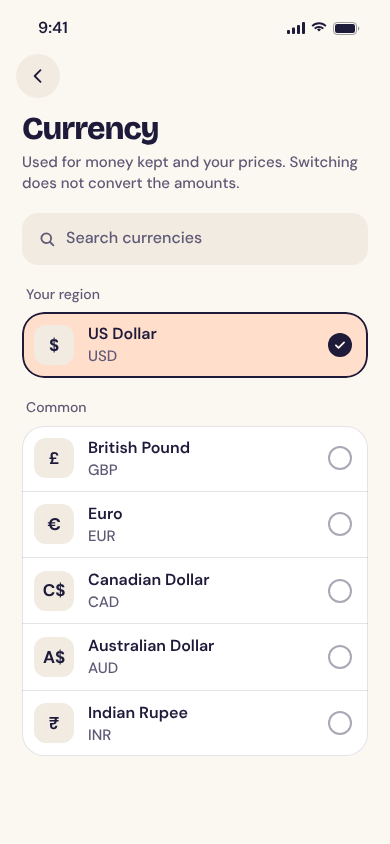
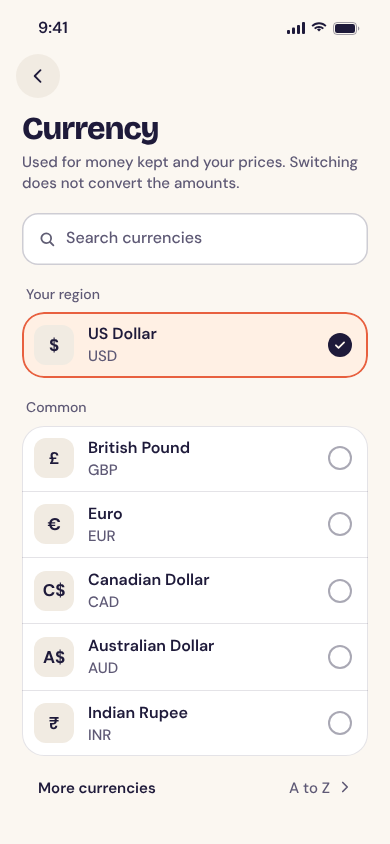
Cook: round 9 session 023-032
Claude-Session: https://claude.ai/code/session_01DZ7ApmrncqosUtJWfkxY6v

diff --git a/cook/site/screens/067-settings-currency.html b/cook/site/screens/067-settings-currency.html
@@ -1,6 +1,6 @@
 <!doctype html><html lang="en"><head><meta charset="utf-8"><meta name="viewport" content="width=390">
 <title>067 Currency</title>
-<meta name="motion" content="The search field and rows arrive on the stagger; at 0.9s US Dollar is picked (ring and tick 250ms, selection haptic) and saves at once with a success haptic: the filled radio is the done state, no toast. The line saying amounts are not converted sits under the title, so it is read before a switch. Typing in search filters rows with a 200ms fade.">
+<meta name="motion" content="The search field and rows arrive on the stagger; at 0.9s US Dollar is picked (ring and tick 250ms, selection haptic) and saves at once with a success haptic: the filled radio is the done state, no toast. The line saying amounts are not converted sits under the title, so it is read before a switch. Typing in search filters rows with a 200ms fade; More currencies, at the end of the list, opens the full A to Z list.">
 <link rel="stylesheet" href="../kit/kit.css">
 <script src="../kit/chars.js"></script><script src="../kit/kit.js"></script>
 <style>
@@ -17,8 +17,12 @@
 .toast.b .ck { flex: none; }
 .pill { height: 34px; padding: 0 12px; border-radius: 11px; background: var(--card-2); display: inline-flex; align-items: center; font: 600 15px/1 var(--body); color: var(--fg); white-space: nowrap; font-variant-numeric: tabular-nums; }
 
-.search { display: flex; align-items: center; gap: 10px; margin-top: 18px; }
-.search svg { width: 18px; height: 18px; color: var(--muted); }
+/* Search reads as a field: the card surface with a clear outline (not a faint tint on the ground). */
+.search { display: flex; align-items: center; gap: 10px; margin-top: 18px; background: var(--card); box-shadow: inset 0 0 0 1.5px color-mix(in srgb, var(--fg) 22%, transparent); color: var(--muted); }
+.search svg { width: 18px; height: 18px; color: var(--fg); opacity: .7; }
+.more { display: flex; align-items: center; justify-content: space-between; width: 100%; height: 48px; margin-top: 8px; padding: 0 14px 0 16px; border-radius: 16px; font: 600 15px/1 var(--body); color: var(--fg); }
+.more .n { color: var(--muted); font-weight: 500; margin-left: auto; margin-right: 6px; }
+.more svg { width: 18px; height: 18px; color: var(--muted); }
 .opts { display: grid; gap: 8px; margin-top: 14px; }
 .opt { min-height: 60px; padding: 10px 16px 10px 12px; }
 .sym { width: 40px; height: 40px; border-radius: 12px; background: var(--card-2); display: grid; place-items: center; font: 700 17px/1 var(--body); letter-spacing: -.2px; flex: none; }
@@ -50,6 +54,7 @@ html .screen .grp .opt.on:only-child { border-radius: inherit; box-shadow: inset
     <button class="opt"><span class="sym">A$</span><div class="grow"><div class="t-body rt">Australian Dollar</div><div class="t-foot">AUD</div></div><span class="radio"></span></button>
     <button class="opt"><span class="sym">&#8377;</span><div class="grow"><div class="t-body rt">Indian Rupee</div><div class="t-foot">INR</div></div><span class="radio"></span></button>
   </div>
+  <button class="more" data-a style="--i:7">More currencies<span class="n">A to Z</span><span data-ic="chev" data-s="18"></span></button>
 </div></div>
 </div>
 <script>

diff --git a/cook/site/screens/042-log-craving.html b/cook/site/screens/042-log-craving.html
@@ -1,6 +1,6 @@
 <!doctype html><html lang="en"><head><meta charset="utf-8"><meta name="viewport" content="width=390">
 <title>042 Log a craving</title>
-<meta name="motion" content="Jelli settles in beside the title (900ms) and stays calm. Sections arrive with a 90ms stagger; the strength fill (Jelli's pink) slides to 5 (700ms settle) along its ten step ticks and the apricot-ringed knob lands on the fifth with a light haptic (a selection tick haptic per step when dragged). The mood row uses four little moons with the evening check-in's expressions (craters, a crescent shadow; navy Rough with tired lids, cream Okay, pale apricot Good, apricot Proud); the chosen one tilts up a touch (400ms settle). Save rests until tapped: it presses, turns into its done state with a tick (success haptic) and the label becomes 'Saved · 4 today' with the 4 bumping (no toast); after 1.2s the form closes.">
+<meta name="motion" content="Jelli settles in beside the title (900ms) and stays calm. Sections arrive with a 90ms stagger; the strength fill (Jelli's pink) slides to 5 (700ms settle) along its ten step ticks and the apricot-ringed knob lands on the fifth with a light haptic (a selection tick haptic per step when dragged). Under the scale, the SOS path (a small ocean wave disc, Too strong? Ride it out with SOS, and a chevron) arrives with the strength section and pushes SOS when tapped. The mood row uses four little moons (about 30pt) with the evening check-in's expressions (craters, a crescent shadow; navy Rough with tired lids, cream Okay with a darker outline, pale apricot Good, apricot Proud); a chosen mood shows only the kit chip selection. The note field is a taller multi-line field. Save rests until tapped: it presses, turns into its done state with a tick (success haptic) and the label becomes 'Saved · 4 today' with the 4 bumping (no toast); after 1.2s the form closes.">
 <link rel="stylesheet" href="../kit/kit.css">
 <script src="../kit/chars.js"></script><script src="../kit/kit.js"></script>
 <style>

diff --git a/cook/site/screens/055-checkin-done.html b/cook/site/screens/055-checkin-done.html
@@ -12,7 +12,7 @@
   .plus { position: absolute; left: 242px; top: -8px; font: 800 18px/1 var(--display); color: #FFD37A; opacity: 0; }
   /* Glim stands on his own small hill at the badge's lower right, clear of the gold ring */
   .glim { position: absolute; left: 266px; top: 98px; width: 132px; height: 132px; }
-  .perch { position: absolute; left: 252px; top: 218px; width: 146px; height: 36px; }
+  .perch { position: absolute; left: 270px; top: 212px; width: 124px; height: 32px; }
   .perch svg { display: block; width: 100%; height: 100%; }
   .perch .pf { fill: #26365F; } .perch .pr { fill: none; stroke: #4A5C8E; stroke-width: 1.5; stroke-linecap: round; }
   [data-theme="dark"] .perch .pf { fill: #1A2745; } [data-theme="dark"] .perch .pr { stroke: #34466F; }
@@ -38,7 +38,7 @@
     <div class="shadow" data-fade style="--d:400ms"></div>
     <div class="bdg" data-stamp style="--d:1100ms"><div class="bdg-in shine" id="badge" style="--d:1750ms"></div></div>
     <span class="plus float-up" style="--d:1250ms">+1</span>
-    <div class="perch" data-fade style="--d:300ms"><svg viewBox="0 0 146 36" preserveAspectRatio="none" aria-hidden="true"><path class="pf" d="M0 36 C16 18 44 6 76 6 C106 6 130 16 146 30 V36Z"/><path class="pr" d="M8 28 C24 14 48 6 76 6 C104 6 124 14 138 24"/></svg></div>
+    <div class="perch" data-fade style="--d:300ms"><svg viewBox="0 0 124 32" preserveAspectRatio="none" aria-hidden="true"><path class="pf" d="M0 32 C14 16 36 6 62 6 C88 6 110 16 124 32Z"/><path class="pr" d="M9 24 C22 12 40 6 62 6 C84 6 102 12 115 24"/></svg></div>
     <div class="glim" data-settle style="--i:1"><div class="bob" id="glim"></div></div>
   </div>
   <div class="nav"><button class="icon-btn" aria-label="Close" data-ic="close"></button></div>
